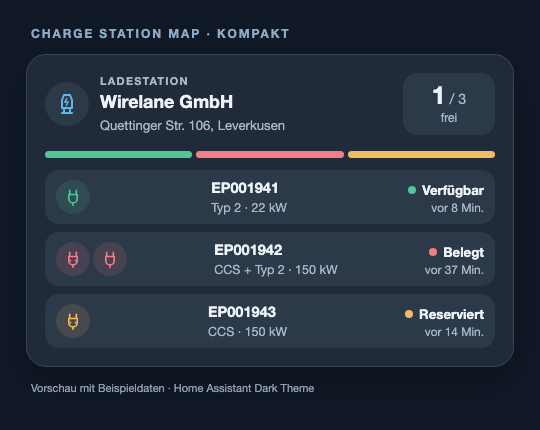
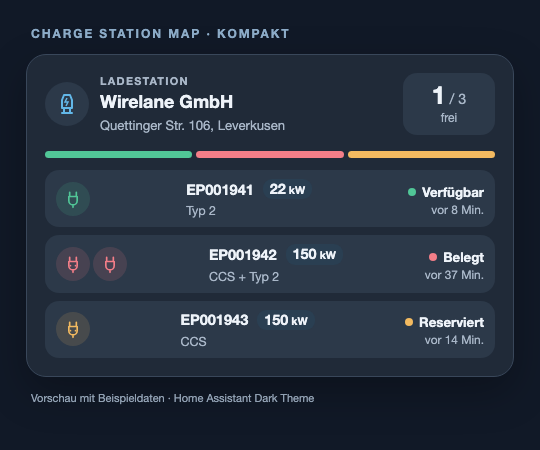
Add Chips card and improve charging power display

diff --git a/custom_components/charge_station_map/www/charge-station-map-card.js b/custom_components/charge_station_map/www/charge-station-map-card.js
@@ -2,6 +2,7 @@
 const CARD_TYPES = [
   ["charge-station-map-compact-card", "Charge Station Map · Kompakt"],
   ["charge-station-map-detail-card", "Charge Station Map · Details"],
+  ["charge-station-map-chips-card", "Charge Station Map · Chips"],
 ];
 
 const TEXT = {
@@ -19,6 +20,7 @@ const TEXT = {
     operator: "Betreiber unbekannt",
     station: "Ladestation",
     free: "frei",
+    maxPower: "Maximale Ladeleistung",
     plugUnknown: "Stecker unbekannt",
     details: "Details in Home Assistant",
     cable: "Kabel vorhanden",
@@ -63,6 +65,7 @@ const TEXT = {
     operator: "Unknown operator",
     station: "Charge station",
     free: "free",
+    maxPower: "Maximum power",
     plugUnknown: "Plug unknown",
     details: "Details in Home Assistant",
     cable: "Cable attached",
@@ -137,6 +140,10 @@ const STYLE = `
   .point-name { font-weight: 700; font-size: .91rem; overflow-wrap: anywhere; }
   .point-id { color: var(--csm-muted); font-size: .72rem; overflow-wrap: anywhere; }
   .point-meta { margin-top: 4px; color: var(--csm-muted); font-size: .78rem; overflow-wrap: anywhere; }
+  .point-title { display: flex; align-items: center; flex-wrap: wrap; gap: 5px 9px; }
+  .power-badge { display: inline-flex; align-items: baseline; gap: 3px; padding: 3px 7px; border-radius: 9px; color: var(--primary-text-color); background: color-mix(in srgb, var(--primary-color, #03a9f4) 15%, var(--card-background-color, #fff)); font-variant-numeric: tabular-nums; white-space: nowrap; }
+  .power-badge strong { font-size: .9rem; font-weight: 750; line-height: 1; }
+  .power-badge small { font-size: .67rem; font-weight: 700; }
   .point-status { display: inline-flex; gap: 6px; align-items: center; font-size: .83rem; font-weight: 650; white-space: nowrap; }
   .dot { width: 8px; height: 8px; flex: none; border-radius: 50%; background: var(--state-color); }
   .age, .exact-time { color: var(--csm-muted); font-size: .74rem; }
@@ -165,9 +172,27 @@ const STYLE = `
   .connector-chip { display: inline-flex; gap: 6px; align-items: center; padding: 4px 8px 4px 4px; border-radius: 18px; background: var(--card-background-color, #fff); font-size: .75rem; }
   .connector-chip .plug-bubble { width: 25px; height: 25px; }
   .connector-chip ha-icon { --mdc-icon-size: 17px; --ha-icon-size: 17px; width: 17px; height: 17px; }
+  .connector-chip .power-badge { padding: 3px 5px; }
+  .connector-chip .cable-label { color: var(--csm-muted); }
   .detail .point-bottom { display: flex; justify-content: space-between; align-items: flex-end; gap: 8px; margin-top: 15px; padding-top: 10px; border-top: 1px solid var(--divider-color, #ddd); }
   .detail .exact-time { margin-top: 2px; }
   .open-cue { color: var(--csm-muted); font-size: 1rem; }
+  .chips .body { padding: 16px; }
+  .chips .station-bubble { width: 40px; height: 40px; }
+  .chips .count { min-width: 74px; padding: 8px 10px; border-radius: 20px; background: color-mix(in srgb, var(--csm-free) 15%, var(--card-background-color, #fff)); }
+  .chips .count strong { color: var(--csm-free); font-size: 1.25rem; }
+  .chips .point-grid { grid-template-columns: repeat(auto-fit, minmax(min(100%, 160px), 1fr)); gap: 8px; margin-top: 14px; }
+  .chips .point { border-radius: 16px; background: var(--secondary-background-color, rgba(127,127,127,.08)); box-shadow: inset 3px 0 var(--state-color); }
+  .chips .point-action { display: block; min-height: 104px; padding: 11px 12px; background: transparent; }
+  .chips .chip-top, .chips .chip-bottom { display: flex; align-items: center; justify-content: space-between; gap: 8px; }
+  .chips .chip-top { margin-bottom: 10px; }
+  .chips .plug-icons { max-width: none; }
+  .chips .plug-bubble { width: 29px; height: 29px; }
+  .chips .plug-bubble ha-icon { --mdc-icon-size: 17px; --ha-icon-size: 17px; width: 17px; height: 17px; }
+  .chips .power-badge strong { font-size: 1.08rem; }
+  .chips .chip-name { margin-top: 2px; color: var(--csm-muted); font-size: .72rem; }
+  .chips .point-status { white-space: normal; font-size: .78rem; }
+  .chips .age { white-space: nowrap; }
   @media (max-width: 360px) {
     .body, .detail .body { padding: 14px; }
     .hero { gap: 8px; }
@@ -252,11 +277,20 @@ function count(value) {
   return Number.isFinite(number) && number >= 0 ? String(number) : "—";
 }
 
-function powerLabel(point) {
+function powerValue(point) {
   const powers = Array.isArray(point.attributes?.maxPowerInKw)
     ? point.attributes.maxPowerInKw.filter((value) => typeof value === "number" && Number.isFinite(value))
     : [];
-  return powers.length ? `${Math.max(...powers)} kW` : "";
+  return powers.length ? Math.max(...powers) : null;
+}
+
+function powerBadge(power, locale) {
+  if (typeof power !== "number" || !Number.isFinite(power)) return null;
+  const badge = element("span", "power-badge");
+  const formatted = new Intl.NumberFormat(locale, { maximumFractionDigits: 1 }).format(power);
+  badge.setAttribute("aria-label", `${formatted} kW`);
+  badge.append(element("strong", "", formatted), element("small", "", "kW"));
+  return badge;
 }
 
 function connectorsOf(point) {
@@ -312,6 +346,10 @@ function visible(config, option) {
   return config?.[option] !== false;
 }
 
+function showStatusStrip(config, chips) {
+  return chips ? config?.show_status_strip === true : visible(config, "show_status_strip");
+}
+
 class ChargeStationMapCard extends HTMLElement {
   constructor() {
     super();
@@ -326,6 +364,7 @@ class ChargeStationMapCard extends HTMLElement {
   static getConfigElement() {
     const editor = document.createElement("charge-station-map-card-editor");
     editor.detailed = this === ChargeStationMapDetailCard;
+    editor.chips = this === ChargeStationMapChipsCard;
     return editor;
   }
 
@@ -353,7 +392,9 @@ class ChargeStationMapCard extends HTMLElement {
     const height = this.shadowRoot.querySelector("ha-card")?.getBoundingClientRect?.().height;
     if (height > 0) return Math.ceil(height / 50);
     const points = pointStates(this._hass, this._config?.entity).length;
-    return this._detailed ? 4 + points * 3 : 3 + points;
+    if (this._detailed) return 4 + points * 3;
+    if (this._chips) return 3 + Math.ceil(points / 2) * 2;
+    return 3 + points;
   }
 
   getGridOptions() {
@@ -392,7 +433,7 @@ class ChargeStationMapCard extends HTMLElement {
     this._signature = signature;
 
     const card = this.shadowRoot.querySelector("ha-card");
-    card.className = this._detailed ? "detail" : "compact";
+    card.className = this._detailed ? "detail" : this._chips ? "chips" : "compact";
     const body = this.shadowRoot.querySelector(".body");
     body.replaceChildren();
     if (!this._config.entity) {
@@ -460,7 +501,7 @@ class ChargeStationMapCard extends HTMLElement {
       body.append(element("div", "notice", strings.closed));
     }
 
-    if (points.length > 0 && visible(this._config, "show_status_strip")) {
+    if (points.length > 0 && showStatusStrip(this._config, this._chips)) {
       const rail = element("div", "status-rail");
       rail.setAttribute("aria-label", strings.points);
       for (const point of points) {
@@ -474,7 +515,7 @@ class ChargeStationMapCard extends HTMLElement {
       body.append(rail);
     }
 
-    if (this._detailed && points.length > 0 && visible(this._config, "show_status_strip")) {
+    if (this._detailed && points.length > 0 && showStatusStrip(this._config, this._chips)) {
       const legend = element("div", "legend");
       const statuses = new Map();
       for (const point of points) {
@@ -497,11 +538,13 @@ class ChargeStationMapCard extends HTMLElement {
       const id = String(point.attributes.evseId);
       const shortId = id.split("*").at(-1);
       const entries = plugEntries(point, strings);
+      const maxPower = powerValue(point);
       const row = element("div", `point ${point.state.toLowerCase()}`);
       const action = element("button", "point-action");
       action.type = "button";
       action.title = strings.details;
-      action.setAttribute("aria-label", `${strings.point} ${shortId}: ${statusText(hass, point, strings)}. ${plugNames(point, strings)}. ${strings.details}`);
+      const powerInfo = maxPower === null ? "" : ` ${strings.maxPower}: ${new Intl.NumberFormat(locale, { maximumFractionDigits: 1 }).format(maxPower)} kW.`;
+      action.setAttribute("aria-label", `${strings.point} ${shortId}: ${statusText(hass, point, strings)}. ${plugNames(point, strings)}.${powerInfo} ${strings.details}`);
       action.addEventListener("click", () => this._activate(point.entity_id));
       const statusNode = element("div", "point-status");
       statusNode.append(element("span", "dot"), element("span", "", statusText(hass, point, strings)));
@@ -509,7 +552,25 @@ class ChargeStationMapCard extends HTMLElement {
       const relative = relativeTime(updatedAt, locale);
       const exact = exactTime(updatedAt, locale, hass.config?.time_zone);
       const time = point.state === "unavailable" || point.state === "unknown" ? null : exact;
-      if (this._detailed) {
+      if (this._chips) {
+        const icons = element("div", "plug-icons");
+        for (const entry of entries.filter((entry, index, all) => all.findIndex((other) => other.name === entry.name) === index)) {
+          icons.append(plugBubble(entry));
+        }
+        const top = element("div", "chip-top");
+        top.append(icons);
+        if (visible(this._config, "show_power")) {
+          const badge = powerBadge(maxPower, locale);
+          if (badge) top.append(badge);
+        }
+        const bottom = element("div", "chip-bottom");
+        bottom.append(statusNode);
+        if (visible(this._config, "show_status_time")) {
+          bottom.append(element("span", "age", time ? (relative || `${strings.since} ${time}`) : strings.noTime));
+        }
+        const plugLabel = this._config.plug_style === "icon_only" ? "" : ` · ${plugNames(point, strings)}`;
+        action.append(top, bottom, element("div", "chip-name", `${shortId}${plugLabel}`));
+      } else if (this._detailed) {
         const top = element("div", "point-top");
         const heading = element("div");
         heading.append(element("div", "point-name", shortId));
@@ -521,12 +582,17 @@ class ChargeStationMapCard extends HTMLElement {
           const chip = element("span", "connector-chip");
           chip.title = entry.name;
           chip.append(plugBubble(entry));
-          const parts = [];
-          if (this._config.plug_style !== "icon_only") parts.push(entry.name);
-          if (visible(this._config, "show_power") && typeof entry.power === "number") parts.push(`${entry.power} kW`);
-          if (visible(this._config, "show_cable") && entry.cable === true) parts.push(strings.cable);
-          if (visible(this._config, "show_cable") && entry.cable === false) parts.push(strings.noCable);
-          if (parts.length) chip.append(element("span", "", parts.join(" · ")));
+          if (this._config.plug_style !== "icon_only") chip.append(element("span", "", entry.name));
+          if (visible(this._config, "show_power")) {
+            const badge = powerBadge(entry.power, locale);
+            if (badge) chip.append(badge);
+          }
+          if (visible(this._config, "show_cable") && entry.cable === true) {
+            chip.append(element("span", "cable-label", strings.cable));
+          }
+          if (visible(this._config, "show_cable") && entry.cable === false) {
+            chip.append(element("span", "cable-label", strings.noCable));
+          }
           connectorList.append(chip);
         }
         action.append(connectorList);
@@ -544,13 +610,16 @@ class ChargeStationMapCard extends HTMLElement {
           icons.append(plugBubble(entry));
         }
         const main = element("div", "point-main");
-        main.append(element("div", "point-name", shortId));
-        const power = powerLabel(point);
-        const meta = [
-          this._config.plug_style === "icon_only" ? "" : plugNames(point, strings),
-          visible(this._config, "show_power") ? power : "",
-        ].filter(Boolean).join(" · ");
-        if (meta) main.append(element("div", "point-meta", meta));
+        const titleLine = element("div", "point-title");
+        titleLine.append(element("span", "point-name", shortId));
+        if (visible(this._config, "show_power")) {
+          const badge = powerBadge(maxPower, locale);
+          if (badge) titleLine.append(badge);
+        }
+        main.append(titleLine);
+        if (this._config.plug_style !== "icon_only") {
+          main.append(element("div", "point-meta", plugNames(point, strings)));
+        }
         const side = element("div", "point-side");
         side.append(statusNode);
         if (visible(this._config, "show_status_time")) {
@@ -571,6 +640,10 @@ class ChargeStationMapCompactCard extends ChargeStationMapCard {
 
 class ChargeStationMapDetailCard extends ChargeStationMapCard {
   _detailed = true;
+}
+
+class ChargeStationMapChipsCard extends ChargeStationMapCard {
+  _chips = true;
 }
 
 class ChargeStationMapCardEditor extends HTMLElement {
@@ -670,7 +743,8 @@ class ChargeStationMapCardEditor extends HTMLElement {
       const checkLabel = element("label", "check", caption);
       const input = element("input");
       input.type = "checkbox";
-      input.checked = visible(this._config, key);
+      input.checked = key === "show_status_strip" && this.chips
+        ? this._config.show_status_strip === true : visible(this._config, key);
       input.addEventListener("change", () => this._changed({ [key]: input.checked }));
       checkLabel.prepend(input);
       settings.append(checkLabel);
@@ -732,7 +806,8 @@ class ChargeStationMapCardEditor extends HTMLElement {
 }
 
 for (const [type, name] of CARD_TYPES) {
-  const cardClass = type.includes("compact") ? ChargeStationMapCompactCard : ChargeStationMapDetailCard;
+  const cardClass = type.includes("compact") ? ChargeStationMapCompactCard
+    : type.includes("chips") ? ChargeStationMapChipsCard : ChargeStationMapDetailCard;
   if (!customElements.get(type)) customElements.define(type, cardClass);
   window.customCards = window.customCards || [];
   if (!window.customCards.some((card) => card.type === type)) {
@@ -741,7 +816,9 @@ for (const [type, name] of CARD_TYPES) {
       name,
       description: type.includes("compact")
         ? "Kompakte Stationsübersicht mit Steckertypen und allen Ladepunkten"
-        : "Ladepunktfelder mit allen Anschlüssen und genauen Statuszeiten",
+        : type.includes("chips")
+          ? "Schlanke, antippbare Ladepunkt-Kacheln im Mushroom-Stil"
+          : "Ladepunktfelder mit allen Anschlüssen und genauen Statuszeiten",
       preview: true,
       getEntitySuggestion: (hass, entityId) =>
         isStation(hass.states?.[entityId])

diff --git a/custom_components/charge_station_map/__init__.py b/custom_components/charge_station_map/__init__.py
@@ -33,7 +33,7 @@ CONFIG_SCHEMA = cv.config_entry_only_config_schema(DOMAIN)
 
 
 async def _async_register_card_resource(hass: HomeAssistant) -> None:
-    """Make both cards available in the dashboard picker without manual setup."""
+    """Make the dashboard cards available in the picker without manual setup."""
     lovelace = hass.data.get(LOVELACE_DOMAIN)
     if lovelace is None:
         _LOGGER.warning("Lovelace is unavailable; cannot register the dashboard cards")
@@ -67,7 +67,7 @@ async def _async_register_card_resource(hass: HomeAssistant) -> None:
 
 
 async def async_setup(hass: HomeAssistant, config: dict) -> bool:
-    """Serve and register the two dashboard cards."""
+    """Serve and register the dashboard cards."""
     card_file = Path(__file__).parent / "www" / "charge-station-map-card.js"
     await hass.http.async_register_static_paths(
         [StaticPathConfig(CARD_URL, str(card_file), cache_headers=False)]

diff --git a/custom_components/charge_station_map/const.py b/custom_components/charge_station_map/const.py
@@ -1,7 +1,7 @@
 """Constants for the EnBW charge stations component."""
 
 DOMAIN = "charge_station_map"
-CARD_VERSION = "3.9.0"
+CARD_VERSION = "3.10.0"
 
 # Config entry keys
 STATION_NUMBER = "station_number"

diff --git a/README.md b/README.md
@@ -68,7 +68,7 @@ needed.
 
 Follow any restart prompt shown after installation or an update. Then open
 **Settings → Devices & Services → Add integration** and search for **Charge
-Station Map**. The two dashboard cards are registered automatically when the
+Station Map**. The dashboard cards are registered automatically when the
 integration is set up.
 
 [![Start setting up Charge Station Map in Home Assistant](https://my.home-assistant.io/badges/config_flow_start.svg)](https://my.home-assistant.io/redirect/config_flow_start/?domain=charge_station_map)
@@ -94,36 +94,40 @@ new station's EVSE IDs.
 
 ## Dashboard cards
 
+![Charge Station Map Chips card with three example charge points](docs/images/chips-card.png)
+
 | Compact | Detailed |
 | --- | --- |
 | ![Charge Station Map compact card with three example charge points](docs/images/compact-card.png) | ![Charge Station Map detailed card with three example charge points](docs/images/detail-card.png) |
 
 These previews use example station data and the Home Assistant dark theme.
 
-The integration includes **Charge Station Map · Kompakt** and **Charge Station
-Map · Details**. Both cards find and show **all** charge points of the selected
-station automatically, including points added later. The compact card is a
-station overview with a status strip and one short row per charge point. Each
-row shows the EVSE ID suffix, plug type icons, maximum power, status and relative
-status age. The detailed card uses a free-point gauge and individual charge
-point tiles with every connector's icon, plug type, power and cable information,
-plus the full EVSE ID and exact status time. Tap the station, a charge point or
-its segment in the status strip to open its Home Assistant details. The time
-comes from the API's `updatedAt` field; if the API does not provide one, the
-card says that the time is unknown.
+The integration includes **Charge Station Map · Chips**, **Charge Station Map ·
+Kompakt**, and **Charge Station Map · Details**. All three find and show **all**
+charge points of the selected station automatically, including points added
+later. Chips uses a compact, responsive grid of tappable point tiles with plug
+icons, prominent maximum power, status and time in that status. Kompakt shows
+one short row per point plus a status strip. Details uses a free-point gauge
+and shows every connector's plug type, individual power and cable information,
+plus the full EVSE ID and exact status time. Tap the station or a charge point
+to open its Home Assistant details; the status strip is also tappable. Status
+times come from the API's `updatedAt` field; if the API does not provide one,
+the cards say that the time is unknown.
 
-Both cards follow the active Home Assistant theme and use rounded, Mushroom-like
+All cards follow the active Home Assistant theme and use rounded, Mushroom-like
 icon bubbles. In the visual card editor, choose the station and customize the
 heading, address, status strip, power, status time, plug labels and tap action.
-The detailed card also lets you show or hide cable information. The default
-tap action opens Home Assistant details; the editor also supports no action or
+The status strip is off by default in Chips to keep it short. The detailed card
+also lets you show or hide cable information. The default tap action opens Home
+Assistant details; the editor also supports no action or
 navigation to a dashboard page. Standard Home Assistant `tap_action` settings
 can be set in YAML.
 
 With the usual Home Assistant dashboard settings, the integration registers
 its card resource automatically. After restarting Home Assistant and reloading
-the browser page, choose **Charge Station Map · Kompakt** or **Charge Station
-Map · Details** in the dashboard card picker and select the station. The
+the browser page, choose **Charge Station Map · Chips**, **Charge Station Map ·
+Kompakt**, or **Charge Station Map · Details** in the dashboard card picker and
+select the station. The
 selector lists station availability entities. You can also add one from a
 station entity's suggested cards. Home Assistant does not add cards to an
 existing dashboard on its own, so you still choose where each card belongs.
@@ -144,6 +148,12 @@ see the earlier card design.
 
 You can also add the cards directly in dashboard YAML. Replace the example
 entity ID with your station's **availability binary sensor**:
+
+```yaml
+type: custom:charge-station-map-chips-card
+entity: binary_sensor.my_station_availability
+show_power: true
+```
 
 ```yaml
 type: custom:charge-station-map-compact-card
@@ -204,10 +214,10 @@ core.
 
 The integration manifest points to
 [isertkaya/Charge-Station-Map](https://github.com/isertkaya/Charge-Station-Map)
-for documentation and issue reports. Make the repository public, add a short
-GitHub description and relevant topics, and enable Issues. Push the files and
-check that the Tests, HACS validation and Home Assistant validation workflows
-pass. Then create a GitHub release for version `3.9.0`. The GPL-3.0 license
+for documentation and issue reports. Before submitting the project to the
+public HACS catalog, check that the Tests, HACS validation and Home Assistant
+validation workflows pass, then create a GitHub release for version `3.10.0`.
+The GPL-3.0 license
 and the origin notice below must remain with the published source.
 
 ## Origin and license
